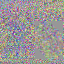
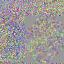
code can handle rotation

diff --git a/SLD-main/utils/latents.py b/SLD-main/utils/latents.py
@@ -239,6 +239,135 @@ def apply_affine_transformation(image, bbox, transformation_matrix):
     return transformed_image
 
 
+def apply_affine_transformation_gpt(image, bbox, transformation_matrix):
+    """
+    Applies any 3x3 affine transformation to the content inside a normalized bounding box.
+    Expands the bounding box to include the transformed content.
+
+    Parameters:
+    - image: Input image (numpy array).
+    - bbox: Normalized bounding box in the format [Top-left x, Top-left y, Width, Height].
+    - transformation_matrix: 3x3 affine transformation matrix (numpy array).
+    
+    Returns:
+    - Transformed image with the affine transformation applied to the bbox area.
+    """
+    # Get image dimensions
+    img_h, img_w = image.shape[:2]
+    # Denormalize the bounding box coordinates
+    x = int(bbox[0] * img_w)
+    y = int(bbox[1] * img_h)
+    w = int(bbox[2] * img_w)
+    h = int(bbox[3] * img_h)
+
+    # Calculate center of original bbox
+    center_x = x + w//2
+    center_y = y + h//2
+
+    # Create translation matrices to move center to origin and back
+    to_origin = np.array([
+        [1, 0, -center_x],
+        [0, 1, -center_y],
+        [0, 0, 1]
+    ])
+    from_origin = np.array([
+        [1, 0, center_x],
+        [0, 1, center_y],
+        [0, 0, 1]
+    ])
+
+    # Compute the four corners of the bbox
+    corners = np.array([
+        [x, y, 1],
+        [x + w, y, 1],
+        [x + w, y + h, 1],
+        [x, y + h, 1]
+    ])
+
+    # Transform corners: translate to origin -> transform -> translate back
+    final_transform = from_origin @ transformation_matrix @ to_origin
+    transformed_corners = np.dot(final_transform, corners.T).T
+
+    # Convert homogeneous coordinates back to cartesian
+    transformed_corners[:, 0] = transformed_corners[:, 0] / transformed_corners[:, 2]
+    transformed_corners[:, 1] = transformed_corners[:, 1] / transformed_corners[:, 2]
+
+    # Create figure and axis
+    plt.figure(figsize=(10, 10))
+    plt.imshow(image)
+
+    # Plot original bbox in red
+    original_corners = corners[:, :2]  # Remove homogeneous coordinate
+    original_corners = np.vstack([original_corners, original_corners[0]])  # Close the polygon
+    plt.plot(original_corners[:, 0], original_corners[:, 1], 'r-', linewidth=2, label='Original bbox')
+
+    # Plot transformed bbox in green
+    transformed_corners_plot = transformed_corners[:, :2]  # Remove homogeneous coordinate
+    transformed_corners_plot = np.vstack([transformed_corners_plot, transformed_corners_plot[0]])  # Close the polygon
+    plt.plot(transformed_corners_plot[:, 0], transformed_corners_plot[:, 1], 'g-', linewidth=2, label='Transformed bbox')
+
+    # Compute the new bounding box to fit the transformed corners
+    new_x_min = int(transformed_corners[:, 0].min())
+    new_y_min = int(transformed_corners[:, 1].min())
+    new_x_max = int(transformed_corners[:, 0].max())
+    new_y_max = int(transformed_corners[:, 1].max())
+
+    # Ensure bbox stays within image bounds
+    new_x_min = max(0, new_x_min)
+    new_y_min = max(0, new_y_min)
+    new_x_max = min(img_w, new_x_max)
+    new_y_max = min(img_h, new_y_max)
+
+    # Plot expanded bbox in blue
+    expanded_corners = np.array([
+        [new_x_min, new_y_min],
+        [new_x_max, new_y_min],
+        [new_x_max, new_y_max],
+        [new_x_min, new_y_max],
+        [new_x_min, new_y_min]  # Close the polygon
+    ])
+    plt.plot(expanded_corners[:, 0], expanded_corners[:, 1], 'b-', linewidth=2, label='Expanded bbox')
+
+    plt.legend()
+    plt.axis('off')
+    plt.savefig('bbox_transformation.png')
+    plt.close()
+
+
+    # Extract the region of interest (ROI) with the expanded bbox
+    roi = image[new_y_min:new_y_max, new_x_min:new_x_max]
+
+    # Adjust bbox width and height
+    expanded_w = new_x_max - new_x_min
+    expanded_h = new_y_max - new_y_min
+
+    # Calculate center of the expanded ROI
+    roi_center_x = expanded_w // 2
+    roi_center_y = expanded_h // 2
+
+    # Create translation matrices
+    translation_to_origin = np.array([
+        [1, 0, -roi_center_x],
+        [0, 1, -roi_center_y],
+        [0, 0, 1]
+    ])
+    translation_back = np.array([
+        [1, 0, roi_center_x],
+        [0, 1, roi_center_y],
+        [0, 0, 1]
+    ])
+
+    # Combine transformations: translate to origin -> transform -> translate back
+    final_transform = translation_back @ transformation_matrix @ translation_to_origin
+
+    # Perform the affine transformation on the ROI
+    transformed_roi = cv2.warpPerspective(roi, final_transform, (expanded_w, expanded_h), flags=cv2.INTER_LINEAR)
+
+    # Create output image
+    transformed_image = image.copy()
+    transformed_image[new_y_min:new_y_max, new_x_min:new_x_max] = transformed_roi
+
+    return transformed_image
 
 def inverse_warp_with_transformation_matrix_marco(A, roi_A, B, seg_map, transform_matrix):
     """
@@ -262,18 +391,17 @@ def inverse_warp_with_transformation_matrix_marco(A, roi_A, B, seg_map, transfor
         # Process each channel separately
         for c in range(B.shape[2]):
             latent_2D = B[i, 0, c].cpu().numpy()  # Get single channel
-            latent_2D = apply_affine_transformation(latent_2D, bbox, transform_matrix)
+            latent_2D = apply_affine_transformation_gpt(latent_2D, bbox, transform_matrix)
             B[i, 0, c] = torch.from_numpy(latent_2D)
 
 
     # Process segmentation mask
     mask_2D = torch.from_numpy(seg_map).float().cpu().numpy()  # Convert to numpy
-    mask_2D = apply_affine_transformation(mask_2D, bbox, transform_matrix)  # Apply same transform
+    mask_2D = apply_affine_transformation_gpt(mask_2D, bbox, transform_matrix)  # Apply same transform
     new_mask = torch.from_numpy(mask_2D).to(A.device)  # Convert back to tensor
     new_mask = new_mask.bool()
 
 
-    breakpoint()
     
     return B, new_mask
 
@@ -466,6 +594,35 @@ def plot_feat(tensor_data, fname):
     # plt.show()
 
 
+
+def define_affine_transformation(rotation_angle, translation, scaling):
+    """
+    Creates a 3x3 affine transformation matrix based on user inputs.
+
+    Parameters:
+    - rotation_angle (float): Rotation angle in degrees.
+    - translation (tuple): Translation as (tx, ty).
+    - scaling (tuple): Scaling as (sx, sy).  # scaling in x, y direction
+
+    Returns:
+    - np.ndarray: A 3x3 affine transformation matrix.
+    """
+    # Convert angle from degrees to radians
+    theta = np.radians(rotation_angle)
+
+    # Decompose inputs
+    tx, ty = translation
+    sx, sy = scaling
+
+    # Define the affine matrix
+    affine_matrix = np.array([
+        [sx * np.cos(theta), -sy * np.sin(theta), tx],
+        [sx * np.sin(theta),  sy * np.cos(theta), ty],
+        [0,                  0,                  1]
+    ])
+
+    return affine_matrix
+
 @torch.no_grad()
 def compose_latents_with_alignment(
     model_dict,
@@ -506,6 +663,9 @@ def compose_latents_with_alignment(
     # mask_tensor_list.append(bg_mask)
 
 
+    
+
+
 
     for obj_name, old_obj, new_obj, seg_map, all_latents in move_objects:
 
@@ -518,20 +678,12 @@ def compose_latents_with_alignment(
         new_latents = all_latents.clone()
 
 
-
-
-         # Define 45 degree clockwise rotation matrix
-        angle = -45  # negative for clockwise rotation
-        angle_rad = math.radians(angle)
-        cos_theta = math.cos(angle_rad)
-        sin_theta = math.sin(angle_rad)
-        
-        # Create 3x3 affine transformation matrix for 45 degree rotation
-        transform_matrix = np.array([
-            [cos_theta, -sin_theta, 0],
-            [sin_theta, cos_theta, 0], 
-            [0, 0, 1]
-        ])
+    # define transformation
+        if obj_name == "cat #1":
+            transform_matrix = define_affine_transformation(rotation_angle = 45, translation = (0, 0), scaling = (1, 1))
+        else:
+            transform_matrix = define_affine_transformation(rotation_angle = 0, translation = (0, 0), scaling = (1, 1))
+       
 
         # Call with correct parameter order
         new_latents, new_mask = inverse_warp_with_transformation_matrix_marco(
@@ -565,7 +717,7 @@ def compose_latents_with_alignment(
                 os.path.join(temp_dir, f"latent_channels_{i:04d}.png")
             )
 
-
+        print(obj_name)
         breakpoint()
 
 

diff --git a/test_marco.py b/test_marco.py
@@ -1,0 +1,96 @@
+import numpy as np
+import cv2
+import matplotlib.pyplot as plt
+
+def apply_affine_transformation_with_bbox_expansion(mask, transformation_matrix):
+    """
+    Applies a 3x3 affine transformation to the mask while expanding the bounding box to avoid cutting the object.
+
+    Parameters:
+    - mask: Input binary mask (numpy array).
+    - transformation_matrix: 3x3 affine transformation matrix (numpy array).
+
+    Returns:
+    - Transformed mask (numpy array).
+    """
+    # Find the non-zero (object) region in the mask
+    y_indices, x_indices = np.where(mask > 0)
+    x_min, x_max = x_indices.min(), x_indices.max()
+    y_min, y_max = y_indices.min(), y_indices.max()
+
+    # Original bounding box corners
+    corners = np.array([
+        [x_min, y_min, 1],
+        [x_max, y_min, 1],
+        [x_max, y_max, 1],
+        [x_min, y_max, 1]
+    ])
+
+    # Transform the corners using the 3x3 matrix
+    transformed_corners = np.dot(transformation_matrix, corners.T).T
+
+    # Calculate the expanded bounding box
+    new_x_min = int(np.floor(transformed_corners[:, 0].min()))
+    new_y_min = int(np.floor(transformed_corners[:, 1].min()))
+    new_x_max = int(np.ceil(transformed_corners[:, 0].max()))
+    new_y_max = int(np.ceil(transformed_corners[:, 1].max()))
+
+    # Ensure the bounding box fits within the mask dimensions
+    height, width = mask.shape
+    new_x_min = max(0, new_x_min)
+    new_y_min = max(0, new_y_min)
+    new_x_max = min(width, new_x_max)
+    new_y_max = min(height, new_y_max)
+
+    # Define the size of the output
+    expanded_width = new_x_max - new_x_min
+    expanded_height = new_y_max - new_y_min
+
+    # Warp the mask using the affine transformation
+    transformed_mask = cv2.warpAffine(
+        mask,
+        transformation_matrix[:2],
+        (expanded_width, expanded_height),
+        flags=cv2.INTER_NEAREST
+    )
+
+    # Create an output mask with the same dimensions as the input
+    output_mask = np.zeros_like(mask)
+    output_mask[new_y_min:new_y_min + transformed_mask.shape[0], new_x_min:new_x_min + transformed_mask.shape[1]] = transformed_mask
+
+    return output_mask
+
+# Example usage
+def main():
+    # Example binary mask
+    # Create a fake binary mask image
+    mask = np.zeros((256, 256), dtype=np.uint8)
+    cv2.circle(mask, (128, 128), 50, 255, -1)  # Draw a filled white circle
+
+    # Define a 3x3 affine transformation matrix
+    angle = 0  # degrees
+    scale = 1.0
+    tx, ty = 0.0, 0.0  # translation in pixels
+    center = (mask.shape[1] // 2, mask.shape[0] // 2)
+
+    # Construct the 3x3 affine transformation matrix
+    rotation_matrix = cv2.getRotationMatrix2D(center, angle, scale)
+    affine_matrix = np.vstack([rotation_matrix, [0, 0, 1]])
+    affine_matrix[0, 2] += tx
+    affine_matrix[1, 2] += ty
+
+    # Apply the transformation
+    transformed_mask = apply_affine_transformation_with_bbox_expansion(mask, affine_matrix)
+
+    # Plot the results
+    plt.figure(figsize=(12, 6))
+    plt.subplot(1, 2, 1)
+    plt.title("Original Mask")
+    plt.imshow(mask, cmap='gray')
+    plt.subplot(1, 2, 2)
+    plt.title("Transformed Mask with Expanded BBox")
+    plt.imshow(transformed_mask, cmap='gray')
+    plt.savefig('transformed_mask_3333.png')
+    plt.close()
+
+main()

diff --git a/TODO.md b/TODO.md
@@ -3,8 +3,7 @@ latents.py
 and SLD_demo.py
 
 
+ROTATION:
+1. we need to check the rotation better. and separate thje latetens fo the two objects in the modify list defiend in data.json
 
-we need to check the rotation better. and separate thje latetens fo the two objects in the modify list defiend in data.json
-
-
-expand the bbox to fit the rotation.
+2. expand the bbox to fit the rotation.
